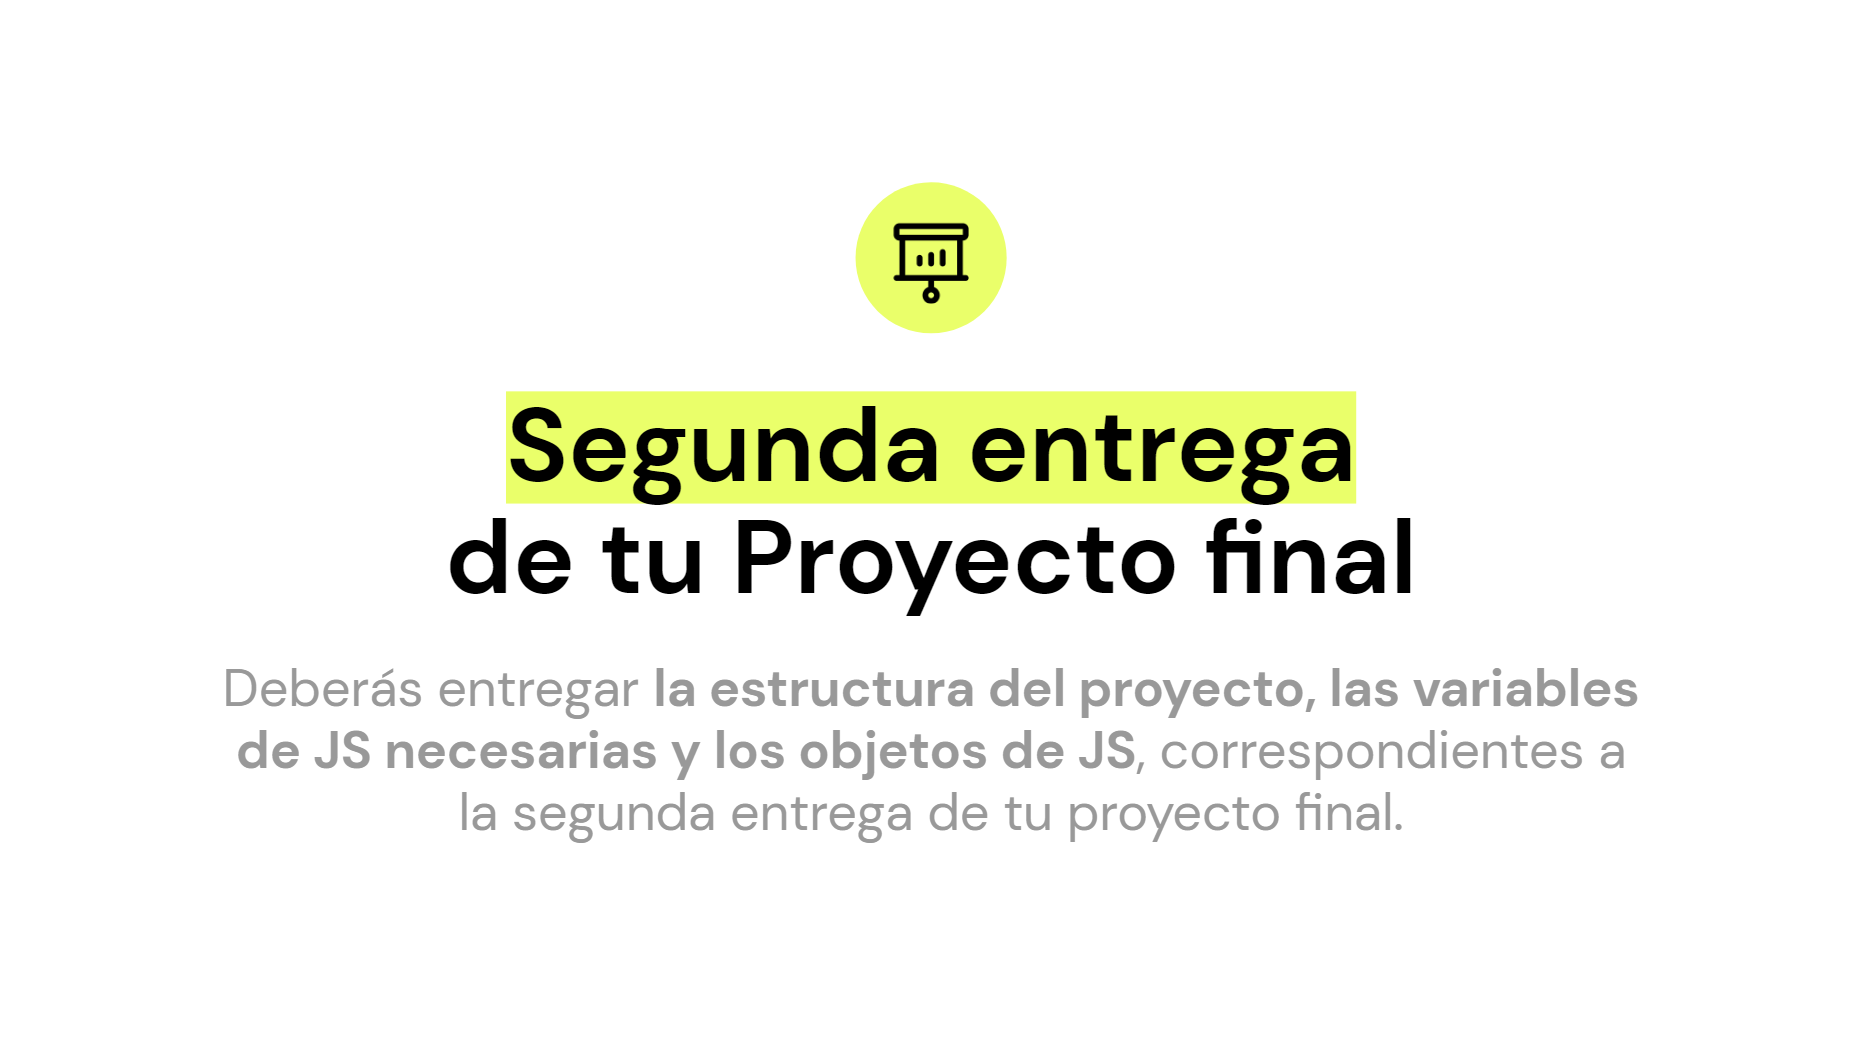
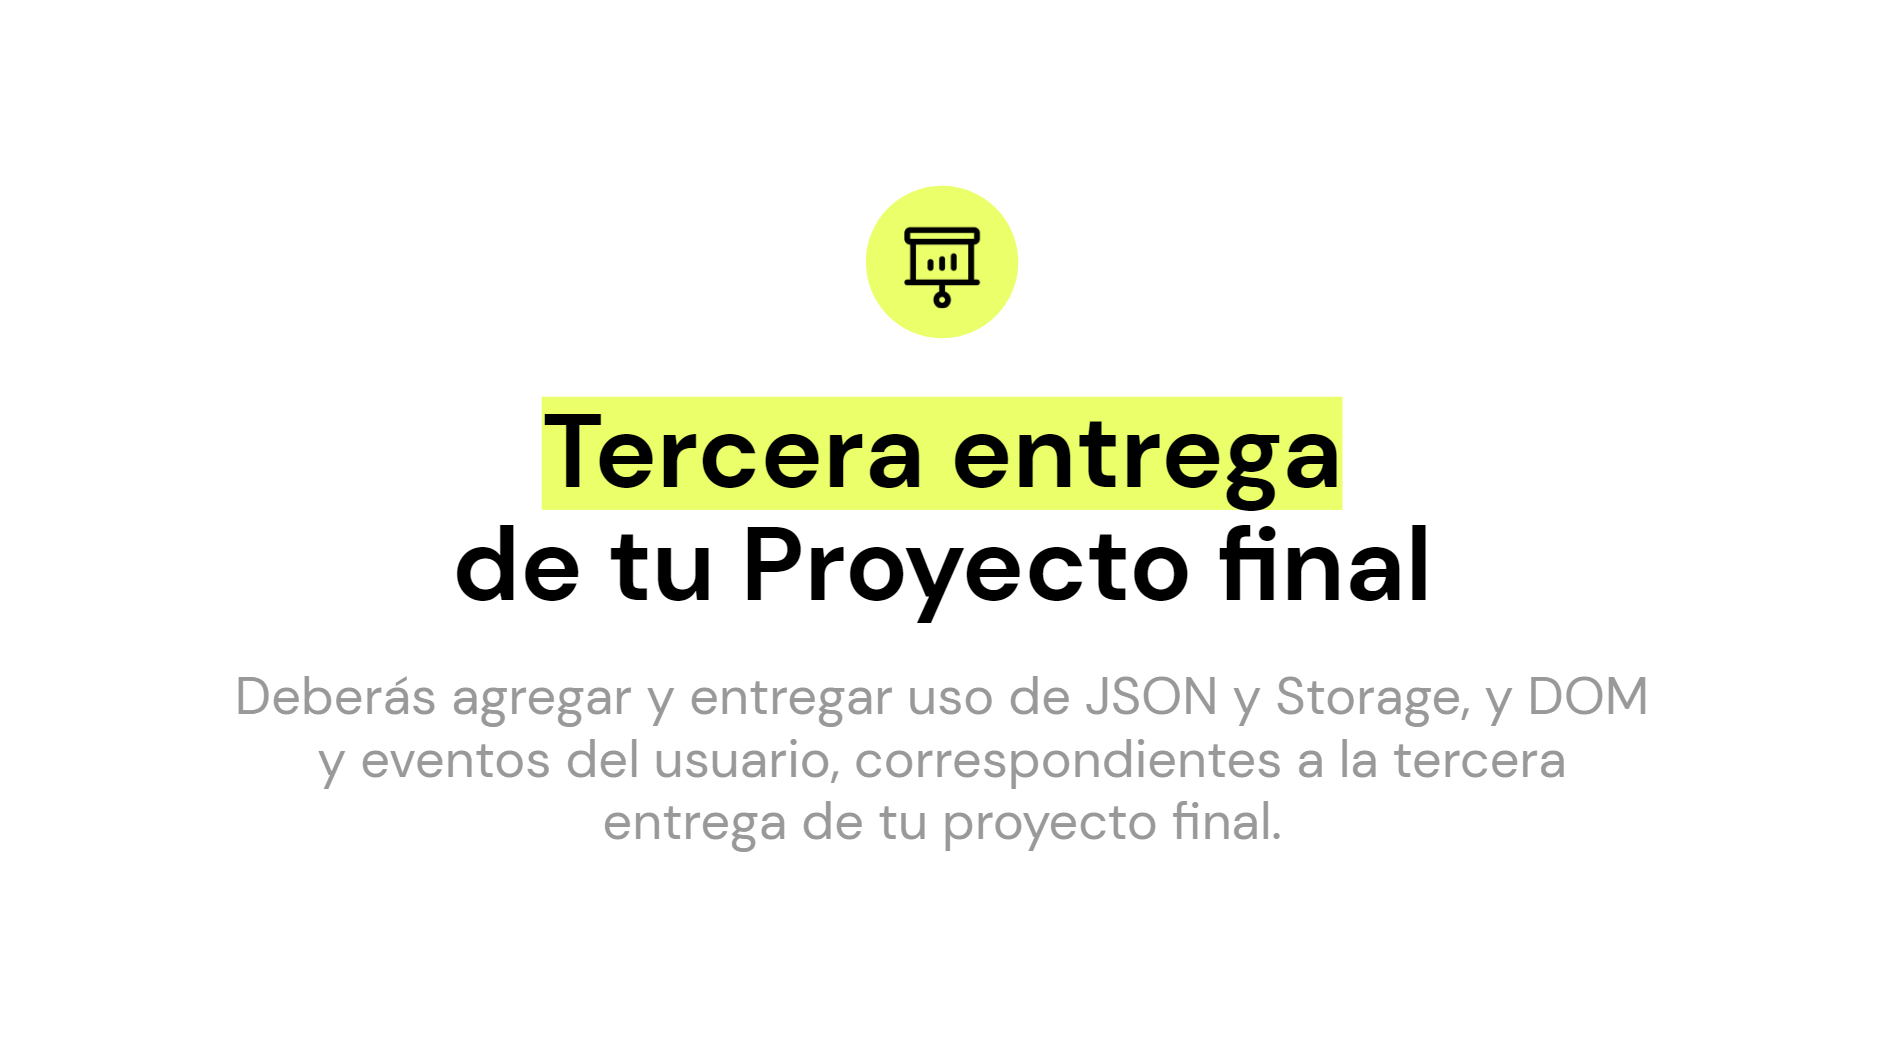
update readme

diff --git a/README.md b/README.md
@@ -1,11 +1,11 @@
-# Segunda Pre Entrega Coderhouse JavaScript
+# Tercer Pre Entrega Coderhouse JavaScript
 > C39420
 ---
 
 URL del proyecto: [Link](https://dacerb.github.io/full-stack-coderhouse-c39420/)
 
 #### IMPORTANTE:
-`Todas las interacciones en esta entrega son por consola.`
+`Interacciones Renderizadas en el HTML.`
 
 ---
 ## Consigna:
